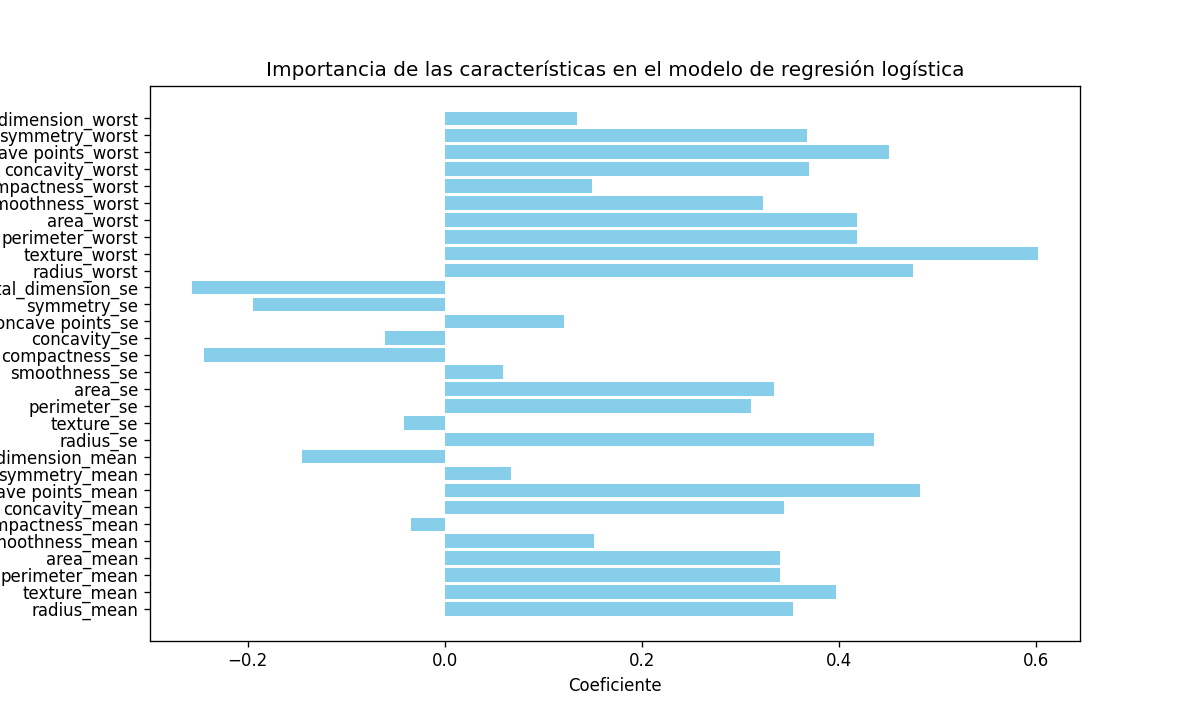
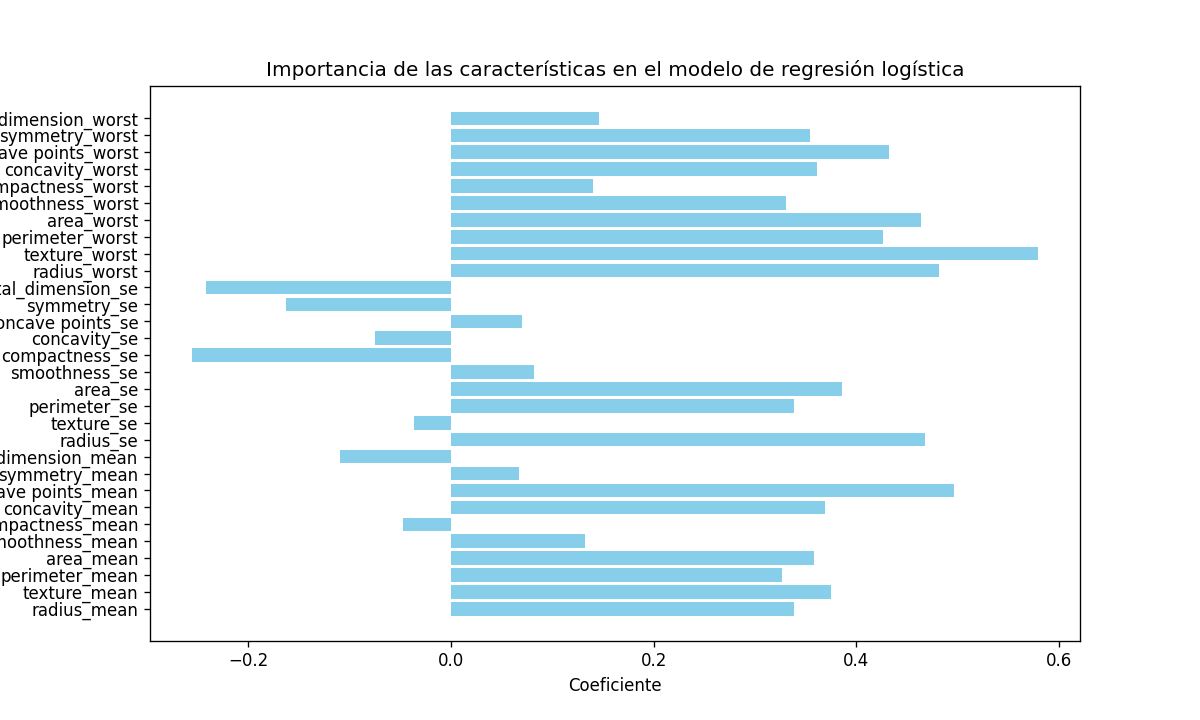
Subir versión corregida sin secretos expuestos

diff --git a/retraining.py b/retraining.py
@@ -7,7 +7,6 @@ from sklearn.metrics import accuracy_score
 import matplotlib.pyplot as plt
 import joblib
 
-
 # --------------------------------------------
 # READ THE DATASET
 # --------------------------------------------
@@ -26,7 +25,7 @@ X_train, X_test, y_train, y_test = train_test_split(X, y, test_size=0.2, random_
 # --------------------------------------------
 pipeline = Pipeline(steps=[
     ('scaler', StandardScaler()),
-    ('classifier', LogisticRegression())
+    ('classifier', LogisticRegression(solver='liblinear', max_iter=1000))
 ])
 
 # --------------------------------------------
@@ -65,7 +64,7 @@ y_pred = best_model.predict(X_test)
 accuracy = accuracy_score(y_test, y_pred)
 
 with open("metrics.txt", 'w') as outfile:
-    outfile.write("Training accuracy: %2.1f%%\n" % accuracy)
+    outfile.write("Training accuracy: %2.1f%%\n" % (accuracy * 100))
 
 # --------------------------------------------
 # SERIALIZING
